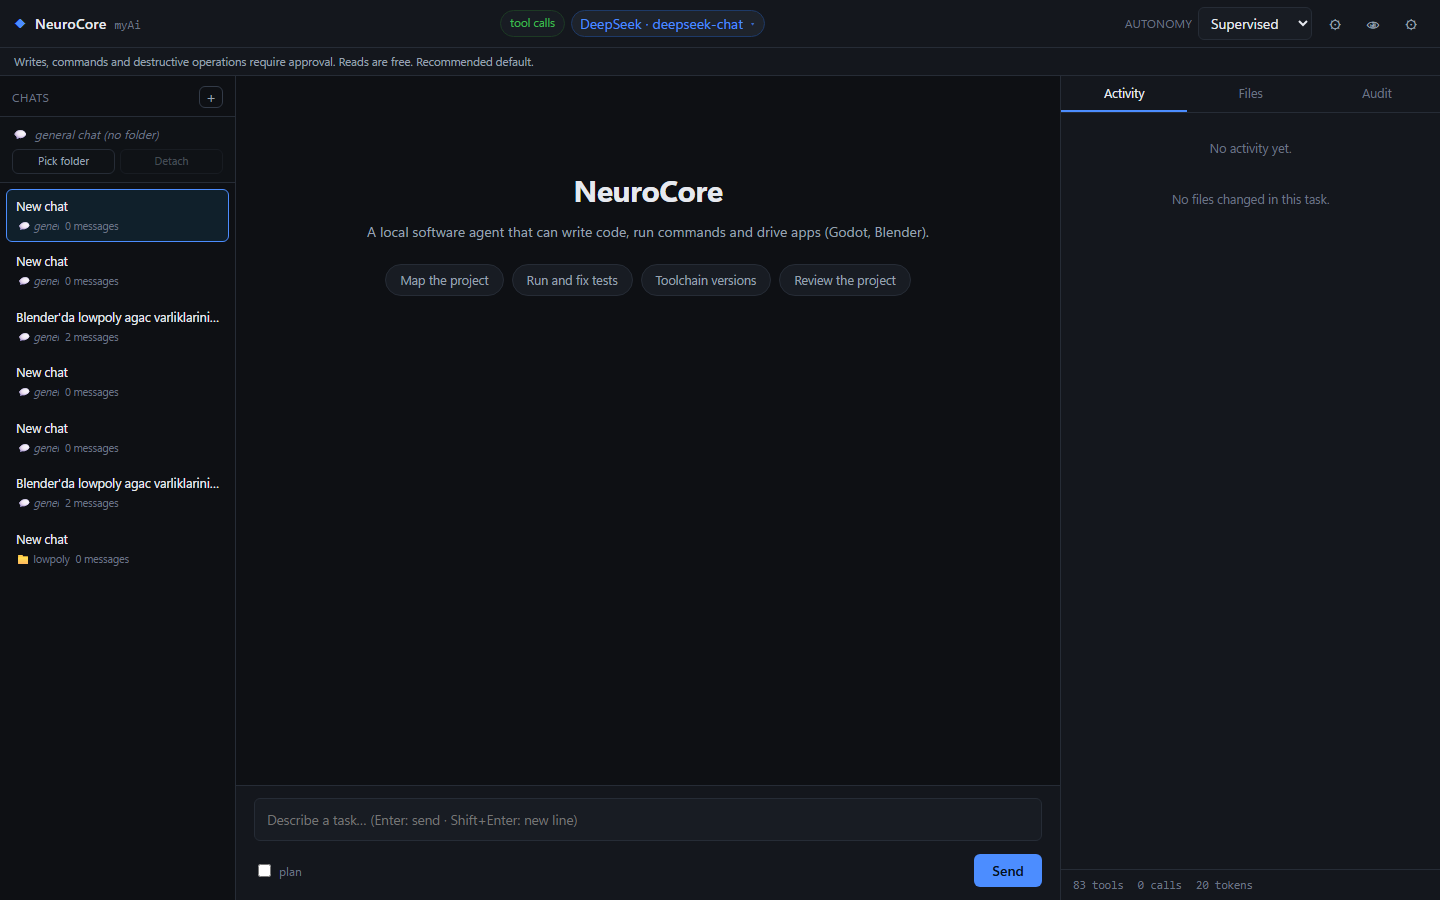
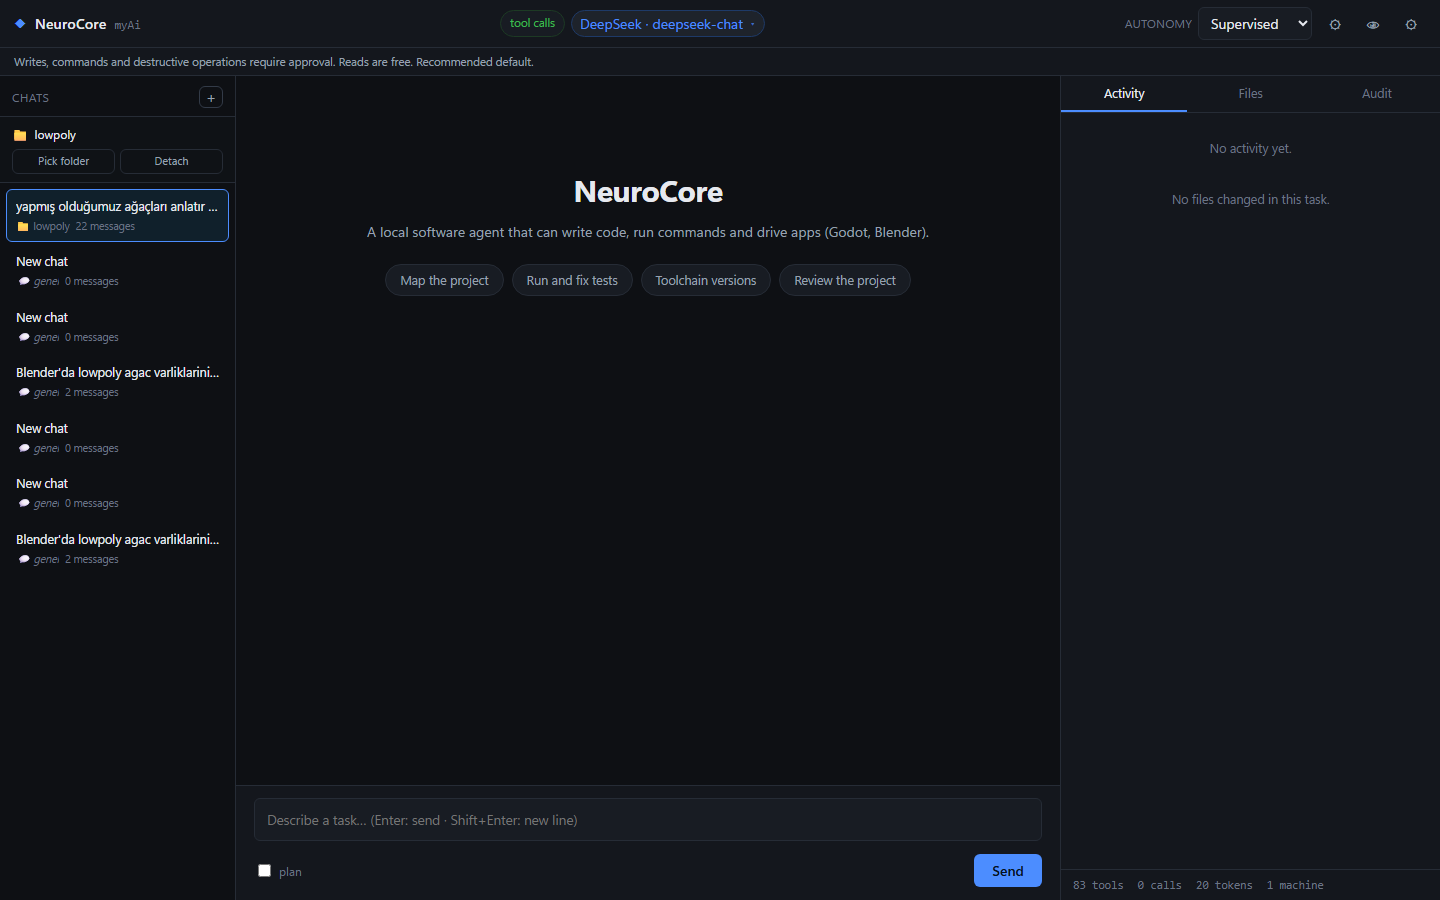
feat(pool): kac makine bagli? /api/pool + /api/state.pool + arayuz sayaci
Soru: uygulama kac makinede calisiyor, bagli olan var mi?
Olcum (gercek sunucu): kayit defterinde 1 satir -> DESKTOP-U6MC36B, koprü
95.70.193.163, relay 25949, kayit yasi 16.6 sn (TTL 90 -> canli), kalp
atisi 30 sn. Baska dugum yok.

Eklenenler:
1) peer_pool: sunucunun dondurdugu dugum sayisi (_son_dugum_sayisi) ve
   canli bayragi get_stats() icinde; kayit yanitindan okunur (ek SSH yok).
2) server: GET /api/pool -> havuz durumu (SSH'siz, onbellekten);
   /api/state icine 'pool' ozeti (dugum_sayisi, canli, ip, node_id).
   Duzeltilen hata: launcher havuzu state.peer_pool olarak tutuyor,
   ilk yazimda state.pool kullanilmisti -> uç 'havuz baslatilmamis' diyordu.
3) Arayuz: alt barda 'N makine' gostergesi (tooltip: canli/kopuk), i18n
   deseni ile Ingilizce karsiligi.
4) docs/images/app-main-en.png guncellendi (sayac gorunuyor).
Testler: test_app 134 OK.

diff --git a/neurocore/app/web/app.js b/neurocore/app/web/app.js
@@ -1894,6 +1894,22 @@ const State = {
     const tokens = (data.llm.stats?.prompt_tokens || 0) + (data.llm.stats?.completion_tokens || 0);
     $('usage-tokens').textContent = `${tokens.toLocaleString('tr-TR')} token`;
 
+    // ⚠ Ortak havuz: kaç makine bağlı? (SSH'sız; kalp atışından önbellek)
+    const elHavuz = $('usage-pool');
+    if (elHavuz) {
+      const havuz = data.pool || {};
+      const sayi = havuz.dugum_sayisi || 0;
+      if (!sayi) {
+        elHavuz.textContent = 'havuz —';
+        elHavuz.title = 'Havuz kaydı henüz yok';
+      } else {
+        elHavuz.textContent = `${sayi} makine`;
+        elHavuz.title = havuz.canli
+          ? `Havuzda ${sayi} makine · bu düğüm canlı (${havuz.ip || '?'})`
+          : `Son kayıt eski — bağlantı koptu olabilir`;
+      }
+    }
+
     if (!data.llm.available) {
       $('welcome-note').innerHTML =
         '⚠ Dil modeli yapılandırılmadı — kural tabanlı modda çalışıyorum. '

diff --git a/neurocore/app/web/i18n.js b/neurocore/app/web/i18n.js
@@ -83,6 +83,9 @@
     [/^(\d+) mesaj$/, (m) => `${m[1]} messages`],
     [/^genel sohbet \(klasör yok\)$/, () => "general chat (no folder)"],
     [/^(\d+) mesaj · (.+)$/, (m) => `${m[1]} messages · ${m[2]}`],
+    // ⚠ Alt bardaki havuz sayacı JS tarafından üretiliyor (dinamik metin)
+    [/^(\d+) makine$/, (m) => `${m[1]} ${m[1] === "1" ? "machine" : "machines"}`],
+    [/^havuz —$/, () => "pool —"],
   ];
 
   // ⚠ ÖLÇÜLDÜ: kaynak metinler sözlüktekiyle **birebir** aynı değil —

diff --git a/neurocore/app/web/index.html b/neurocore/app/web/index.html
@@ -174,6 +174,7 @@
         <span id="usage-tools">0 araç</span>
         <span id="usage-calls">0 çağrı</span>
         <span id="usage-tokens">0 token</span>
+        <span id="usage-pool" title="Ortak havuzdaki makine sayısı">havuz —</span>
       </div>
     </div>
   </aside>

diff --git a/neurocore/app/server.py b/neurocore/app/server.py
@@ -357,6 +357,21 @@ def create_app(state: AppState, static_dir: Optional[Path] = None) -> Any:
 
     # ─── Durum ──────────────────────────────────────────────────────────
 
+    @app.get("/api/pool")
+    async def get_pool(request: Request) -> Any:
+        """
+        Ortak havuz durumu: kaç makine bağlı, bu düğüm canlı mı?
+
+        ⚠ SSH çağrısı **yapılmaz**: sayı, kayıt yanıtından önbelleklenir
+        (her 30 sn kalp atışında güncellenir). Tam liste için
+        `python tools/ag_havuzu.py --liste`.
+        """
+        _check_origin(request)
+        if getattr(state, "peer_pool", None) is None:
+            return _json({"ok": False, "error": "ortak havuz başlatılmamış"})
+        bilgi = state.peer_pool.get_stats()
+        return _json({"ok": True, **bilgi})
+
     @app.get("/api/learning")
     async def get_learning(request: Request) -> Any:
         """
@@ -484,6 +499,14 @@ def create_app(state: AppState, static_dir: Optional[Path] = None) -> Any:
             "events": state.events.status(),
             "modules": _module_status(),
             "last_run": state.last_run,
+            # ⚠ Havuz özeti: kaç makine bağlı (SSH'sız, önbellekten)
+            "pool": ({"dugum_sayisi": getattr(state.peer_pool, "_son_dugum_sayisi", 0),
+                      "canli": bool(getattr(state.peer_pool, "_son_kayit", 0)
+                                    and (__import__("time").time()
+                                         - state.peer_pool._son_kayit) < 90),
+                      "ip": getattr(state.peer_pool, "_son_ip", ""),
+                      "node_id": getattr(state.peer_pool, "_kimlik", "")[:8]}
+                     if getattr(state, "peer_pool", None) is not None else {}),
         })
 
     def _module_status() -> Dict[str, Any]:

diff --git a/neurocore/net/peer_pool.py b/neurocore/net/peer_pool.py
@@ -356,6 +356,8 @@ class PeerPool:
         self._ayar_uyarisi = False
         #: Son bilinen genel IP (ek ssh çağrısı yapmamak için önbellek)
         self._son_ip = ""
+        # ⚠ Sunucunun gördüğü **düğüm sayısı** (kayıt yanıtından)
+        self._son_dugum_sayisi = 0
 
     # ─── Yaşam Döngüsü ──────────────────────────────────────────────────
 
@@ -592,6 +594,10 @@ class PeerPool:
             "aralik": self._aralik,
             "son_kayit_yas": round(max(0.0, time.time() - self._son_kayit), 1),
             "ip": self._son_ip,
+            # ⚠ Havuzda kaç makine var? (sunucunun saydığı)
+            "dugum_sayisi": self._son_dugum_sayisi,
+            "canli": (self._son_kayit > 0
+                      and (time.time() - self._son_kayit) < max(30.0, self._ttl)),
         }
 
     # ─── Kimlik ─────────────────────────────────────────────────────────
@@ -792,6 +798,7 @@ print(json.dumps(satirlar, ensure_ascii=False))
         ip = str(benim.get("ip") or "")
         if ip:
             self._son_ip = ip
+        self._son_dugum_sayisi = len(satirlar)
         logger.info(f"Havuza kaydedildi: {ip or '?'} · düğüm {len(satirlar)}")
         return {"ok": True, "node_id": self._kimlik, "ip": ip,
                 "komsu": len(satirlar)}
